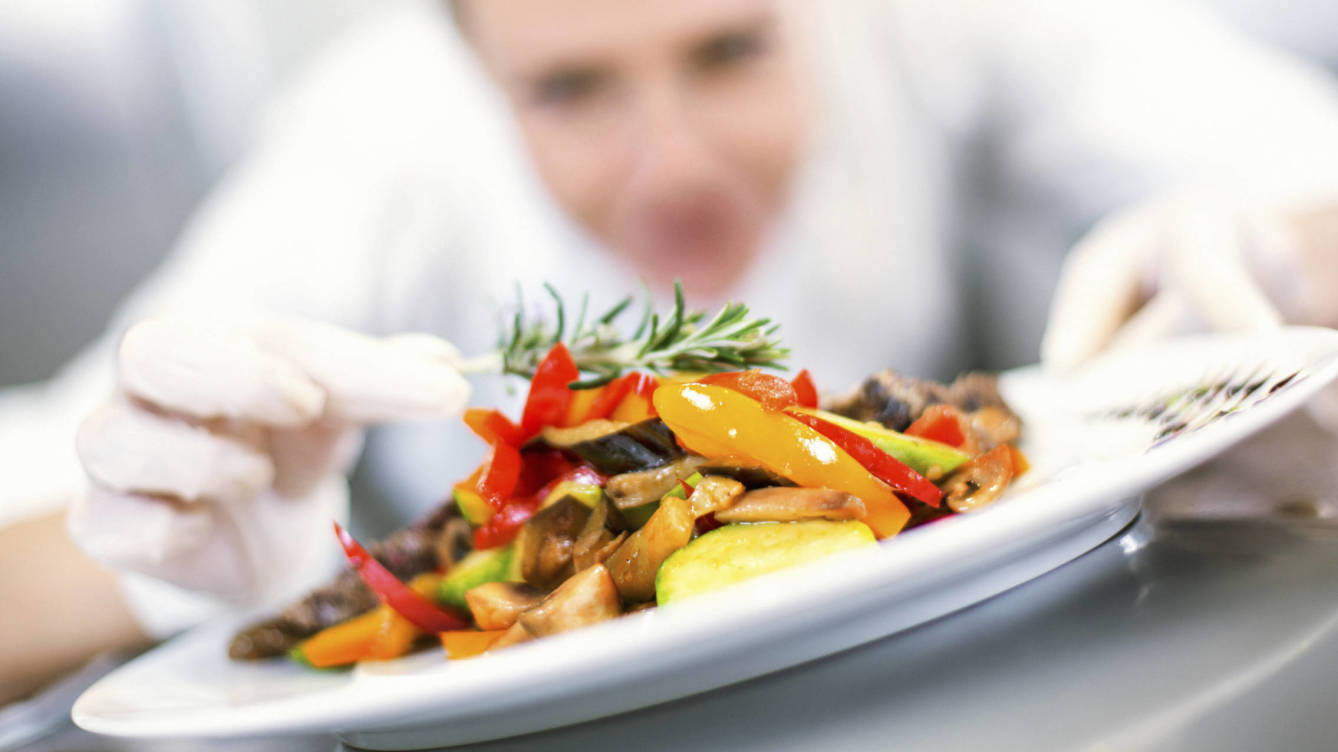
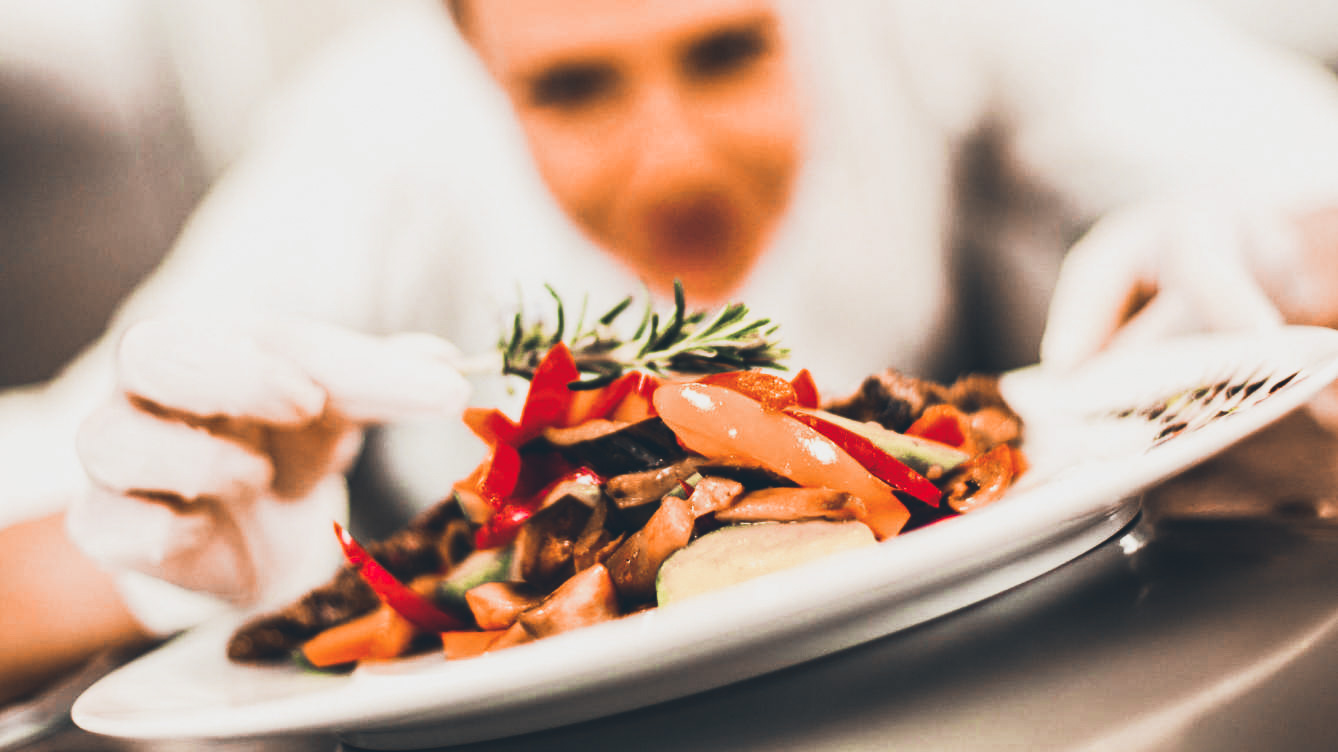
creacion del formulario login

diff --git a/css/creative.min.css b/css/creative.min.css
@@ -2,4 +2,4 @@
  * Start Bootstrap - Creative v5.0.1 (https://startbootstrap.com/template-overviews/creative)
  * Copyright 2013-2018 Start Bootstrap
  * Licensed under MIT (https://github.com/BlackrockDigital/startbootstrap-creative/blob/master/LICENSE)
- */body,html{width:100%;height:100%}body{font-family:Merriweather,'Helvetica Neue',Arial,sans-serif}hr{max-width:50px;border-width:3px;border-color:#f05f40}hr.light{border-color:#fff}a{color:#f05f40;-webkit-transition:all .2s;transition:all .2s}a:hover{color:#f05f40}h1,h2,h3,h4,h5,h6{font-family:'Open Sans','Helvetica Neue',Arial,sans-serif}.bg-primary{background-color:#f05f40!important}.bg-dark{background-color:#212529!important}.text-faded{color:rgba(255,255,255,.7)}section{padding:8rem 0}.section-heading{margin-top:0}::-moz-selection{color:#fff;background:#212529;text-shadow:none}::selection{color:#fff;background:#212529;text-shadow:none}img::-moz-selection{color:#fff;background:0 0}img::selection{color:#fff;background:0 0}img::-moz-selection{color:#fff;background:0 0}#mainNav{border-bottom:1px solid rgba(33,37,41,.1);background-color:#fff;font-family:'Open Sans','Helvetica Neue',Arial,sans-serif;-webkit-transition:all .2s;transition:all .2s}#mainNav .navbar-brand{font-weight:700;text-transform:uppercase;color:#f05f40;font-family:'Open Sans','Helvetica Neue',Arial,sans-serif}#mainNav .navbar-brand:focus,#mainNav .navbar-brand:hover{color:#f05f40}#mainNav .navbar-nav>li.nav-item>a.nav-link,#mainNav .navbar-nav>li.nav-item>a.nav-link:focus{font-size:.9rem;font-weight:700;text-transform:uppercase;color:#212529}#mainNav .navbar-nav>li.nav-item>a.nav-link:focus:hover,#mainNav .navbar-nav>li.nav-item>a.nav-link:hover{color:#f05f40}#mainNav .navbar-nav>li.nav-item>a.nav-link.active,#mainNav .navbar-nav>li.nav-item>a.nav-link:focus.active{color:#f05f40!important;background-color:transparent}#mainNav .navbar-nav>li.nav-item>a.nav-link.active:hover,#mainNav .navbar-nav>li.nav-item>a.nav-link:focus.active:hover{background-color:transparent}@media (min-width:992px){#mainNav{border-color:transparent;background-color:transparent}#mainNav .navbar-brand{color:rgba(255,255,255,.7)}#mainNav .navbar-brand:focus,#mainNav .navbar-brand:hover{color:#fff}#mainNav .navbar-nav>li.nav-item>a.nav-link{padding:.5rem 1rem}#mainNav .navbar-nav>li.nav-item>a.nav-link,#mainNav .navbar-nav>li.nav-item>a.nav-link:focus{color:rgba(255,255,255,.7)}#mainNav .navbar-nav>li.nav-item>a.nav-link:focus:hover,#mainNav .navbar-nav>li.nav-item>a.nav-link:hover{color:#fff}#mainNav.navbar-shrink{border-bottom:1px solid rgba(33,37,41,.1);background-color:#fff}#mainNav.navbar-shrink .navbar-brand{color:#f05f40}#mainNav.navbar-shrink .navbar-brand:focus,#mainNav.navbar-shrink .navbar-brand:hover{color:#f05f40}#mainNav.navbar-shrink .navbar-nav>li.nav-item>a.nav-link,#mainNav.navbar-shrink .navbar-nav>li.nav-item>a.nav-link:focus{color:#212529}#mainNav.navbar-shrink .navbar-nav>li.nav-item>a.nav-link:focus:hover,#mainNav.navbar-shrink .navbar-nav>li.nav-item>a.nav-link:hover{color:#f05f40}}header.masthead{padding-top:10rem;padding-bottom:calc(10rem - 56px);background-image:url(../img/header.jpg);background-position:center center;background-size:cover}header.masthead hr{margin-top:30px;margin-bottom:30px}header.masthead h1{font-size:2rem}header.masthead p{font-weight:300}@media (min-width:768px){header.masthead p{font-size:1.15rem}}@media (min-width:992px){header.masthead{height:100vh;min-height:650px;padding-top:0;padding-bottom:0}header.masthead h1{font-size:3rem}}@media (min-width:1200px){header.masthead h1{font-size:4rem}}.service-box{max-width:400px}.portfolio-box{position:relative;display:block;max-width:650px;margin:0 auto}.portfolio-box .portfolio-box-caption{position:absolute;bottom:0;display:block;width:100%;height:100%;text-align:center;opacity:0;color:#fff;background:rgba(240,95,64,.9);-webkit-transition:all .2s;transition:all .2s}.portfolio-box .portfolio-box-caption .portfolio-box-caption-content{position:absolute;top:50%;width:100%;-webkit-transform:translateY(-50%);transform:translateY(-50%);text-align:center}.portfolio-box .portfolio-box-caption .portfolio-box-caption-content .project-category,.portfolio-box .portfolio-box-caption .portfolio-box-caption-content .project-name{padding:0 15px;font-family:'Open Sans','Helvetica Neue',Arial,sans-serif}.portfolio-box .portfolio-box-caption .portfolio-box-caption-content .project-category{font-size:14px;font-weight:600;text-transform:uppercase}.portfolio-box .portfolio-box-caption .portfolio-box-caption-content .project-name{font-size:18px}.portfolio-box:hover .portfolio-box-caption{opacity:1}.portfolio-box:focus{outline:0}@media (min-width:768px){.portfolio-box .portfolio-box-caption .portfolio-box-caption-content .project-category{font-size:16px}.portfolio-box .portfolio-box-caption .portfolio-box-caption-content .project-name{font-size:22px}}.text-primary{color:#f05f40!important}.btn{font-weight:700;text-transform:uppercase;border:none;border-radius:300px;font-family:'Open Sans','Helvetica Neue',Arial,sans-serif}.btn-xl{padding:1rem 2rem}.btn-primary{background-color:#f05f40;border-color:#f05f40}.btn-primary:active,.btn-primary:focus,.btn-primary:hover{color:#fff;background-color:#ee4b28!important}.btn-primary:active,.btn-primary:focus{-webkit-box-shadow:0 0 0 .2rem rgba(240,95,64,.5)!important;box-shadow:0 0 0 .2rem rgba(240,95,64,.5)!important}
+ */body,html{width:100%;height:100%}body{font-family:Merriweather,'Helvetica Neue',Arial,sans-serif}hr{max-width:50px;border-width:3px;border-color:#f05f40}hr.light{border-color:#fff}a{color:#f05f40;-webkit-transition:all .2s;transition:all .2s}a:hover{color:#f05f40}h1,h2,h3,h4,h5,h6{font-family:'Open Sans','Helvetica Neue',Arial,sans-serif}.bg-primary{background-color:#f05f40!important}.bg-dark{background-color:#212529!important}.text-faded{color:rgba(255,255,255,.7)}section{padding:8rem 0}.section-heading{margin-top:0}::-moz-selection{color:#fff;background:#212529;text-shadow:none}::selection{color:#fff;background:#212529;text-shadow:none}img::-moz-selection{color:#fff;background:0 0}img::selection{color:#fff;background:0 0}img::-moz-selection{color:#fff;background:0 0}#mainNav{border-bottom:1px solid rgba(33,37,41,.1);background-color:#fff;font-family:'Open Sans','Helvetica Neue',Arial,sans-serif;-webkit-transition:all .2s;transition:all .2s}#mainNav .navbar-brand{font-weight:700;text-transform:uppercase;color:#f05f40;font-family:'Open Sans','Helvetica Neue',Arial,sans-serif}#mainNav .navbar-brand:focus,#mainNav .navbar-brand:hover{color:#f05f40}#mainNav .navbar-nav>li.nav-item>a.nav-link,#mainNav .navbar-nav>li.nav-item>a.nav-link:focus{font-size:.9rem;font-weight:700;text-transform:uppercase;color:#212529}#mainNav .navbar-nav>li.nav-item>a.nav-link:focus:hover,#mainNav .navbar-nav>li.nav-item>a.nav-link:hover{color:#f05f40}#mainNav .navbar-nav>li.nav-item>a.nav-link.active,#mainNav .navbar-nav>li.nav-item>a.nav-link:focus.active{color:#f05f40!important;background-color:transparent}#mainNav .navbar-nav>li.nav-item>a.nav-link.active:hover,#mainNav .navbar-nav>li.nav-item>a.nav-link:focus.active:hover{background-color:transparent}@media (min-width:992px){#mainNav{border-color:transparent;background-color:transparent}#mainNav .navbar-brand{color:rgba(255,255,255,.7)}#mainNav .navbar-brand:focus,#mainNav .navbar-brand:hover{color:#fff}#mainNav .navbar-nav>li.nav-item>a.nav-link{padding:.5rem 1rem}#mainNav .navbar-nav>li.nav-item>a.nav-link,#mainNav .navbar-nav>li.nav-item>a.nav-link:focus{color:rgba(255,255,255,.7)}#mainNav .navbar-nav>li.nav-item>a.nav-link:focus:hover,#mainNav .navbar-nav>li.nav-item>a.nav-link:hover{color:#fff}#mainNav.navbar-shrink{border-bottom:1px solid rgba(33,37,41,.1);background-color:#fff}#mainNav.navbar-shrink .navbar-brand{color:#f05f40}#mainNav.navbar-shrink .navbar-brand:focus,#mainNav.navbar-shrink .navbar-brand:hover{color:#f05f40}#mainNav.navbar-shrink .navbar-nav>li.nav-item>a.nav-link,#mainNav.navbar-shrink .navbar-nav>li.nav-item>a.nav-link:focus{color:#212529}#mainNav.navbar-shrink .navbar-nav>li.nav-item>a.nav-link:focus:hover,#mainNav.navbar-shrink .navbar-nav>li.nav-item>a.nav-link:hover{color:#f05f40}}header.masthead{padding-top:10rem;padding-bottom:calc(10rem - 56px);background-image:url(../img/1.jpg);background-position:center center;background-size:cover}header.masthead hr{margin-top:30px;margin-bottom:30px}header.masthead h1{font-size:2rem}header.masthead p{font-weight:300}@media (min-width:768px){header.masthead p{font-size:1.15rem}}@media (min-width:992px){header.masthead{height:100vh;min-height:650px;padding-top:0;padding-bottom:0}header.masthead h1{font-size:3rem}}@media (min-width:1200px){header.masthead h1{font-size:4rem}}.service-box{max-width:400px}.portfolio-box{position:relative;display:block;max-width:650px;margin:0 auto}.portfolio-box .portfolio-box-caption{position:absolute;bottom:0;display:block;width:100%;height:100%;text-align:center;opacity:0;color:#fff;background:rgba(240,95,64,.9);-webkit-transition:all .2s;transition:all .2s}.portfolio-box .portfolio-box-caption .portfolio-box-caption-content{position:absolute;top:50%;width:100%;-webkit-transform:translateY(-50%);transform:translateY(-50%);text-align:center}.portfolio-box .portfolio-box-caption .portfolio-box-caption-content .project-category,.portfolio-box .portfolio-box-caption .portfolio-box-caption-content .project-name{padding:0 15px;font-family:'Open Sans','Helvetica Neue',Arial,sans-serif}.portfolio-box .portfolio-box-caption .portfolio-box-caption-content .project-category{font-size:14px;font-weight:600;text-transform:uppercase}.portfolio-box .portfolio-box-caption .portfolio-box-caption-content .project-name{font-size:18px}.portfolio-box:hover .portfolio-box-caption{opacity:1}.portfolio-box:focus{outline:0}@media (min-width:768px){.portfolio-box .portfolio-box-caption .portfolio-box-caption-content .project-category{font-size:16px}.portfolio-box .portfolio-box-caption .portfolio-box-caption-content .project-name{font-size:22px}}.text-primary{color:#f05f40!important}.btn{font-weight:700;text-transform:uppercase;border:none;border-radius:300px;font-family:'Open Sans','Helvetica Neue',Arial,sans-serif}.btn-xl{padding:1rem 2rem}.btn-primary{background-color:#f05f40;border-color:#f05f40}.btn-primary:active,.btn-primary:focus,.btn-primary:hover{color:#fff;background-color:#ee4b28!important}.btn-primary:active,.btn-primary:focus{-webkit-box-shadow:0 0 0 .2rem rgba(240,95,64,.5)!important;box-shadow:0 0 0 .2rem rgba(240,95,64,.5)!important}

diff --git a/iniciarSesion.php b/iniciarSesion.php
@@ -26,14 +26,23 @@
 
         <style>
             .tarjetaInicioSesion{
-                
+
                 margin: auto;
                 height: 500px;
-                
-
+            }
+            .titulo{
+                color: gray;
+            }
+            .tarjetaFormulario{
+                margin-top: 20px;
             }
             .separacion{
-                margin-top: 50px;
+                margin-top: 40px;
+            }
+            .logo{
+                height: 64px;
+                width: 64px;
+                margin-top: 10px;
             }
 
         </style>
@@ -75,17 +84,16 @@
                     <div class="col-lg-10 mx-auto">
                         <div class="card w-50 tarjetaInicioSesion">
                             <div class="card-body">
+                                <img class="logo" src="img/logo.png"/>
+                                <h2 class="titulo">Iniciar Sesion</h2>
                                 <div class="tarjetaFormulario">
                                     <input type="text" class="form-control separacion" placeholder="Nombre de Usuario" aria-label="Username" aria-describedby="basic-addon1">
                                     <input type="password" class="form-control separacion" placeholder="Contraseña" aria-describedby="basic-addon1">
                                     <a class="btn btn-primary btn-xl js-scroll-trigger separacion" href="#about">Iniciar Sesion</a>
+                                    <p class="text-muted mb-5 separacion">Aún no te haz registrado? <a href="" >Registrate</a></p>
                                 </div>
                             </div>
                         </div>
-                    </div>
-                    <div class="col-lg-8 mx-auto">
-                        <p class="text-faded mb-5">Start Bootstrap can help you build better websites using the Bootstrap CSS framework! Just download your template and start going, no strings attached!</p>
-                        <a class="btn btn-primary btn-xl js-scroll-trigger" href="#about">Iniciar Sesion</a>
                     </div>
                 </div>
             </div>
